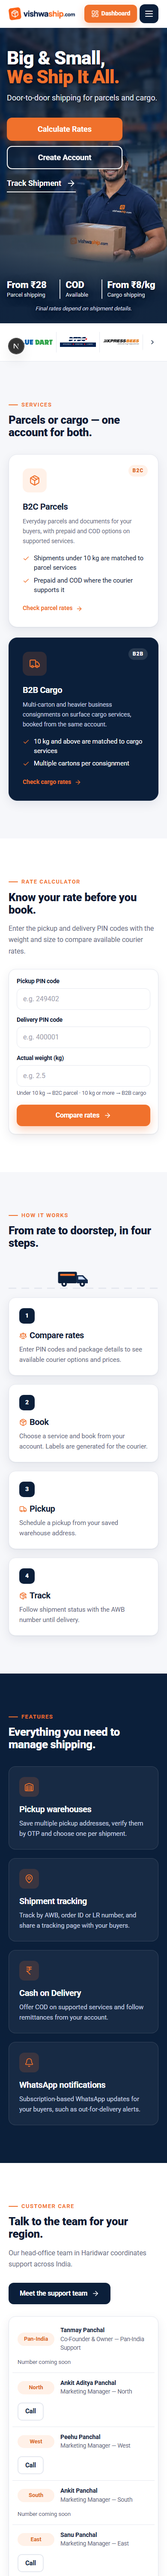
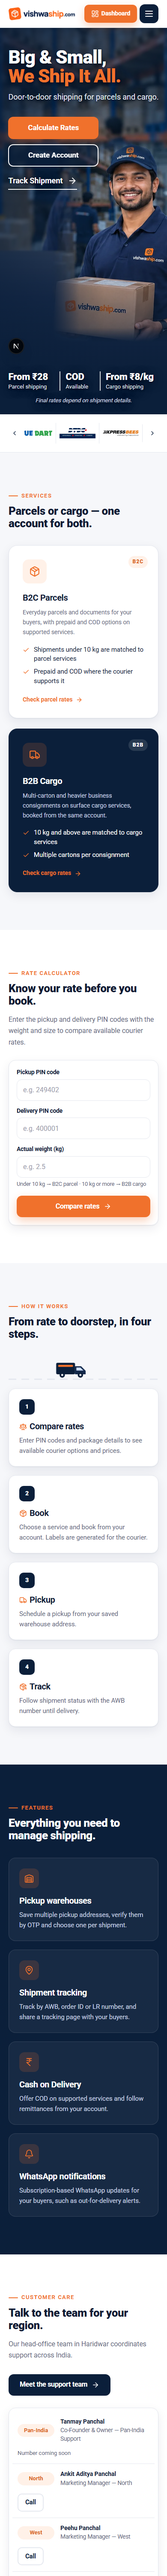
Home (phones): full-height courier composition, face beside the buttons, warehouse visible

diff --git a/src/styles/site-v2.css b/src/styles/site-v2.css
@@ -498,3 +498,28 @@
 @media (min-width:601px) and (max-width:719px){
   .w-hero4 .w-hero-media::after{background:linear-gradient(90deg,rgba(11,31,58,.96) 0%,rgba(11,31,58,.86) 44%,rgba(11,31,58,.25) 64%,rgba(11,31,58,.05) 82%),linear-gradient(0deg,rgba(11,31,58,.95) 0%,rgba(11,31,58,.6) 18%,rgba(11,31,58,0) 34%)}
 }
+
+/* Phones (≤600 px): premium full-height composition. The background is drawn 2× for a 390×900 hero:
+   warehouse aisle behind, courier large on the right (face beside the buttons), parcel above the pricing row. */
+@media (max-width:600px){
+  .w-hero4 .w-hero-media img,.w-hero4 .w-hero-media video{object-position:center top}
+  .w-hero4 .w-hero-media::after{background:
+    linear-gradient(180deg,rgba(11,31,58,.6) 0%,rgba(11,31,58,.32) 20%,rgba(11,31,58,.06) 36%,rgba(11,31,58,0) 58%,rgba(11,31,58,.5) 76%,rgba(11,31,58,.96) 92%),
+    linear-gradient(90deg,rgba(11,31,58,.62) 0%,rgba(11,31,58,.28) 44%,rgba(11,31,58,0) 62%)}
+  .w-hero4 .in{display:flex;flex-direction:column;align-items:stretch;min-height:calc(100vw * 1800 / 780);padding:28px 16px 22px}
+  .w-hero4 .txt{display:flex;flex-direction:column;flex:1 1 auto;max-width:none}
+  .w-hero4 .w-btns{max-width:54vw;gap:12px}
+  .w-hero4 .w-btn{min-height:52px;font-size:17px;padding:0 12px}
+  .w-tracklink{align-self:flex-start}
+  .w-hero4 .w-hl{margin-top:auto;padding-top:24px}
+}
+@media (max-width:340px){.w-hero4 .w-btns{max-width:58vw}.w-hero4 .w-btn{font-size:16px}}
+@media (min-width:601px) and (max-width:719px){
+  .w-hero4 .in{min-height:960px;display:flex;flex-direction:column;align-items:stretch;padding:40px 24px 28px}
+  .w-tracklink{align-self:flex-start}
+  .w-hero4 .txt{display:flex;flex-direction:column;flex:1 1 auto;max-width:none}
+  .w-hero4 .w-hl{margin-top:auto}
+  .w-hero4 .w-hero-media picture{display:flex;justify-content:flex-end}
+  .w-hero4 .w-hero-media img{width:auto;max-width:none;height:100%;object-fit:cover;object-position:right top}
+  .w-hero4 .w-hero-media::after{background:linear-gradient(90deg,rgba(11,31,58,1) 0%,rgba(11,31,58,.96) 30%,rgba(11,31,58,.55) 48%,rgba(11,31,58,0) 66%),linear-gradient(0deg,rgba(11,31,58,.95) 0%,rgba(11,31,58,.5) 16%,rgba(11,31,58,0) 30%)}
+}

diff --git a/src/server/site/content.ts b/src/server/site/content.ts
@@ -51,7 +51,7 @@ export async function getSiteContent(opts: { preview?: boolean } = {}): Promise<
   // the earlier default hero photo is replaced by the warehouse-and-truck background
   // earlier built-in hero images/copy are replaced by the current defaults (custom uploads are kept)
   if (["/brand/hero.jpg", "/brand/hero-desktop.webp"].includes(c.home.heroPosterUrl)) c.home.heroPosterUrl = DEFAULTS.home.heroPosterUrl;
-  if (["", "/brand/hero-mobile.webp"].includes(c.home.heroMobileUrl)) c.home.heroMobileUrl = DEFAULTS.home.heroMobileUrl;
+  if (["", "/brand/hero-mobile.webp", "/brand/hero-courier-mobile.webp"].includes(c.home.heroMobileUrl)) c.home.heroMobileUrl = DEFAULTS.home.heroMobileUrl;
   if (["Simple shipping for parcels and cargo.", "Compare courier rates, book parcels and cargo, and manage your shipments with Vishwaship.", "From everyday parcels to business cargo, manage your shipping with Vishwaship."].includes(c.home.heroText)) c.home.heroText = DEFAULTS.home.heroText;
   return c;
 }

diff --git a/src/lib/site-content.ts b/src/lib/site-content.ts
@@ -173,7 +173,7 @@ export const DEFAULTS: SiteContent = {
     trackHeading: "Track a shipment",
     heroVideoUrl: "",
     heroPosterUrl: "/brand/hero-courier-desktop.webp",
-    heroMobileUrl: "/brand/hero-courier-mobile.webp",
+    heroMobileUrl: "/brand/hero-courier-phone.webp",
     offerLine: "COD Available • Parcels from ₹28 • Cargo from ₹8/kg",
     highlights: [{ big: "From ₹28", small: "Parcel shipping" }, { big: "COD", small: "Available" }, { big: "From ₹8/kg", small: "Cargo shipping" }],
     highlightNote: "Final rates depend on shipment details.",
